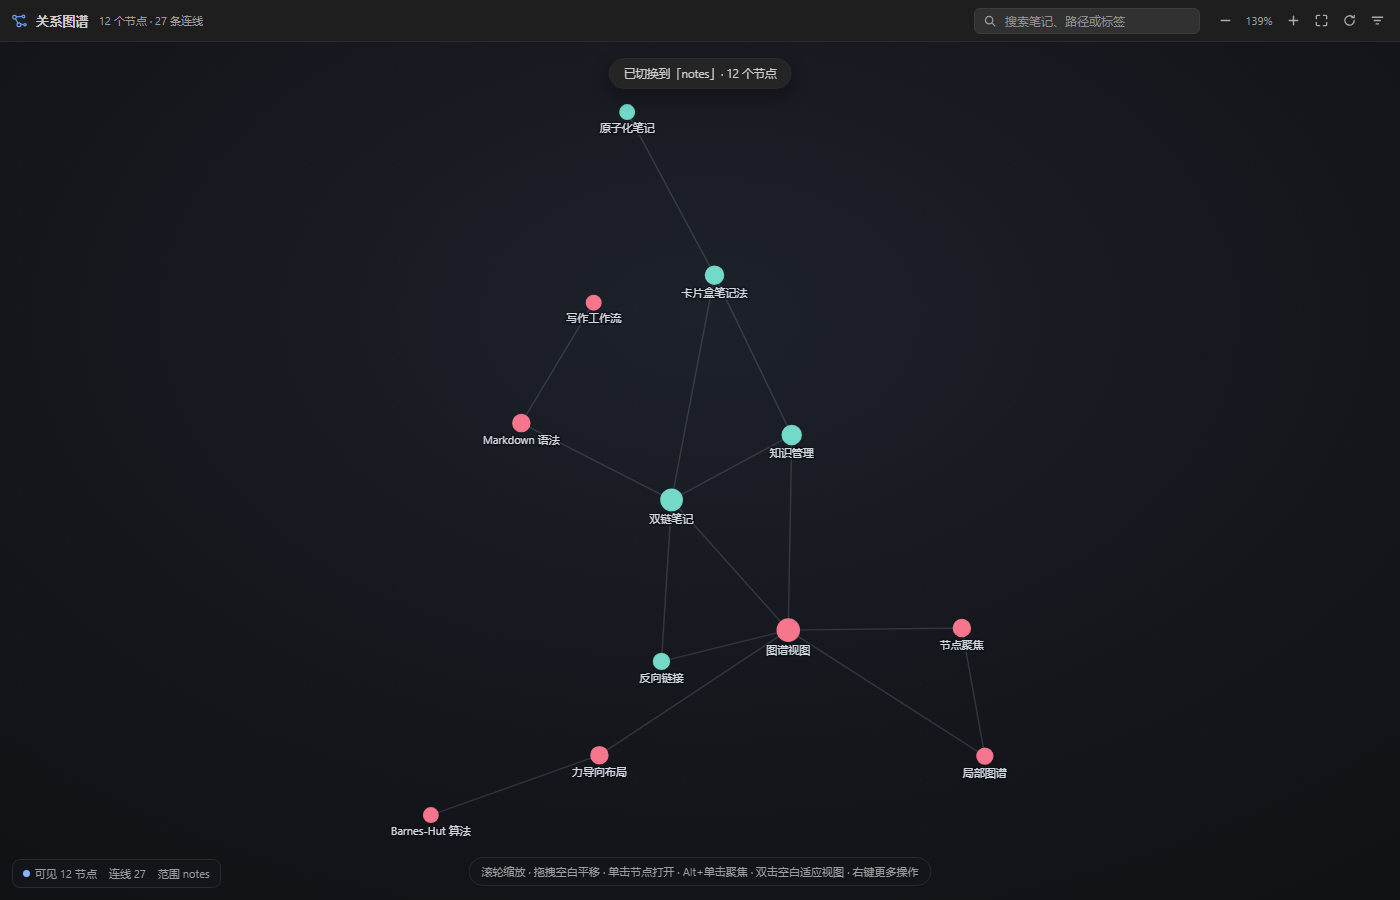
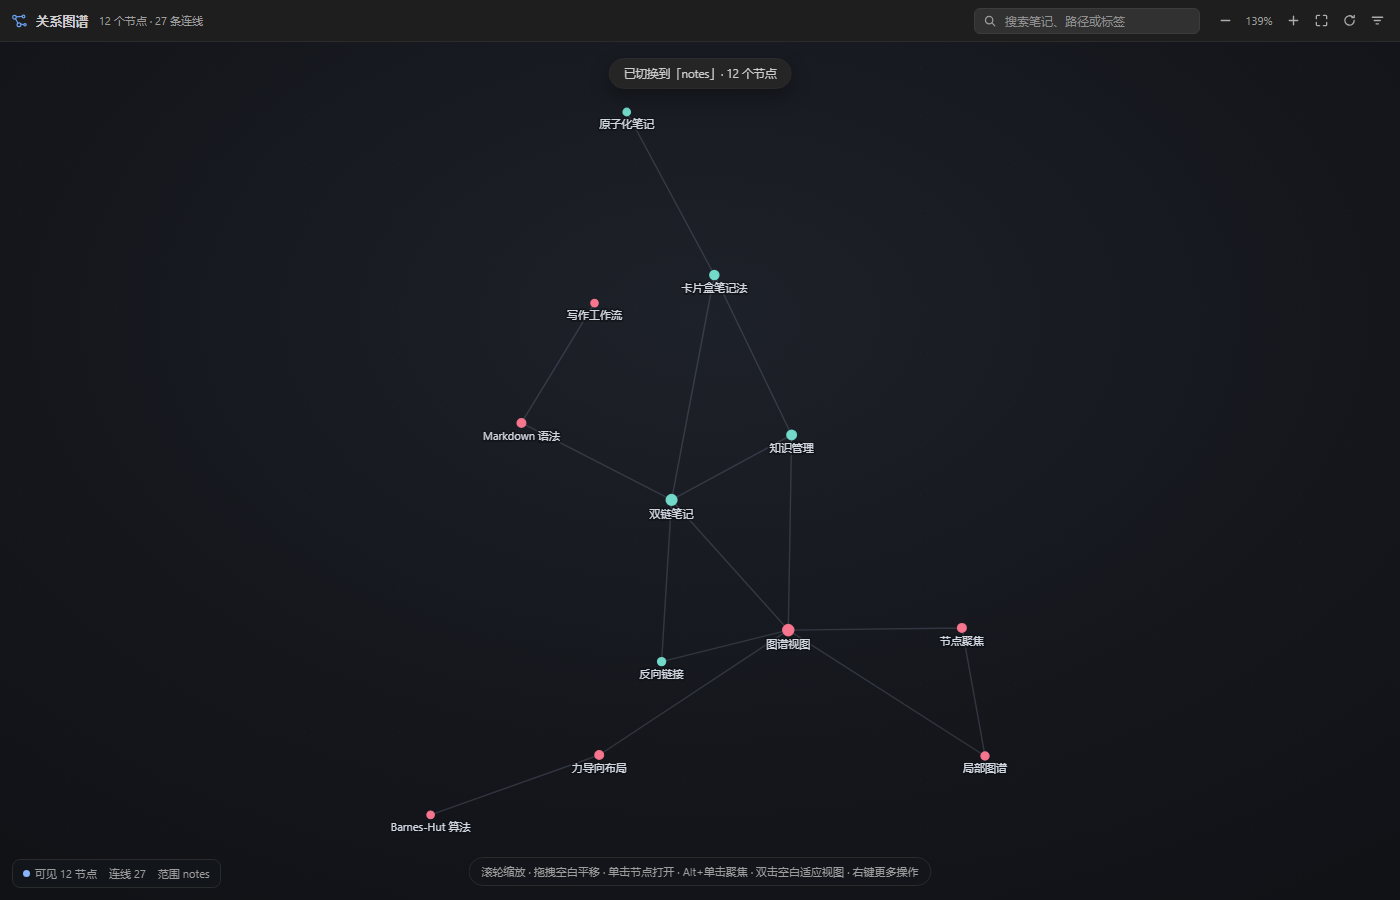
fix: 节点初始半径减半并提前标签淡出 v1.3.1
- radiusFor 整体 ×0.5（含未解析节点），点状观感更接近 Obsidian
- 标签淡出改为按节点屏幕半径判定（1.8px 起渐隐、0.7px 完全隐藏）：
  节点变小后标签在缩放更早阶段消失，修复“缩小视图时文字隐藏过晚”
- 绘制最小像素 2.2→1.1、拾取半径补偿 5→6、碰撞间距 5→8，
  保证小节点可点击且布局密度与改动前一致
- 冒烟测试新增高低缩放标签透明度对比（0.81 → 0.07）与极小缩放全隐藏断言
- 文档与全部截图按新尺寸重新生成

diff --git a/scripts/smoke-webview.js b/scripts/smoke-webview.js
@@ -273,6 +273,53 @@ function wait(ms) { return new Promise((r) => setTimeout(r, ms)); }
   }
   canvas.dispatchEvent(new window.MouseEvent('pointerleave', { bubbles: true }));
   await wait(80);
+
+  // 高缩放基线：适应视图后标签应几乎不透明
+  window.document.querySelector('#btn-fit').dispatchEvent(new window.MouseEvent('click', { bubbles: true }));
+  await wait(700);
+  labelCalls.length = 0;
+  window.dispatchEvent(new window.Event('resize'));
+  await wait(150);
+  const highAlphas = labelCalls.map((c) => c.alpha);
+  const highAvg = highAlphas.length
+    ? highAlphas.reduce((a, b) => a + b, 0) / highAlphas.length
+    : 0;
+  const highZoom = window.document.querySelector('#zoom-label').textContent;
+
+  // 缩到 35% 左右：低度数节点的标签应先淡出，仅保留较大节点
+  for (let i = 0; i < 16; i++) {
+    const zoom = parseFloat(window.document.querySelector('#zoom-label').textContent);
+    if (zoom <= 42) break;
+    const wheel = new window.MouseEvent('wheel', {
+      clientX: 640,
+      clientY: 410,
+      bubbles: true,
+      cancelable: true
+    });
+    wheel.deltaY = 120;
+    wheel.deltaMode = 0;
+    canvas.dispatchEvent(wheel);
+    await wait(50);
+  }
+  await wait(600);
+  labelCalls.length = 0;
+  window.dispatchEvent(new window.Event('resize'));
+  await wait(150);
+  const nodeCount = Number((/(\d+) 个节点/.exec(window.document.querySelector('#stats').textContent) || [0, 42])[1]);
+  const uniqueLabels = new Set(labelCalls.map((c) => c.text)).size;
+  const lowAlphas = labelCalls.map((c) => c.alpha);
+  const lowAvg = lowAlphas.length
+    ? lowAlphas.reduce((a, b) => a + b, 0) / lowAlphas.length
+    : 0;
+  const lowZoom = window.document.querySelector('#zoom-label').textContent;
+  console.log(
+    `标签透明度：${highZoom} 平均 ${highAvg.toFixed(2)} → ${lowZoom} 平均 ${lowAvg.toFixed(2)}，` +
+      `可见标签 ${uniqueLabels} / 节点 ${nodeCount}`
+  );
+  check('高缩放下标签清晰', highAvg > 0.7, highAvg.toFixed(2));
+  check('缩小后标签明显变淡', lowAvg < highAvg * 0.65, `${highAvg.toFixed(2)} → ${lowAvg.toFixed(2)}`);
+  check('缩小后仍有大节点标签可读', uniqueLabels > 0);
+
   for (let i = 0; i < 8; i++) {
     const wheel = new window.MouseEvent('wheel', {
       clientX: 640,

diff --git a/media/graph.js b/media/graph.js
@@ -346,9 +346,10 @@
   }
 
   function radiusFor(node) {
-    var base = 3 + Math.min(7.5, Math.sqrt(node.degree || 0) * 1.55);
+    // v1.3.1：初始点大小减半，更接近 Obsidian 的点状图谱
+    var base = (3 + Math.min(7.5, Math.sqrt(node.degree || 0) * 1.55)) * 0.5;
     if (node.kind === 'unresolved') {
-      return Math.max(2.8, base * 0.7);
+      base = Math.max(1.4, base * 0.7);
     }
     return base * state.settings.nodeScale;
   }
@@ -630,7 +631,7 @@
             var dx = b.x - a.x;
             var dy = b.y - a.y;
             var dist = Math.sqrt(dx * dx + dy * dy);
-            var minDist = a.radius + b.radius + 5;
+            var minDist = a.radius + b.radius + 8;
             if (dist >= minDist) continue;
             if (dist < 0.001) {
               dx = (Math.random() - 0.5) * 0.8;
@@ -796,11 +797,11 @@
     if (!state.settings.showLabels) {
       return 0;
     }
-    var base = Math.max(0.1, state.settings.labelThreshold);
-    var sizeBonus = clamp((node.radius - 4) / 12, 0, 0.18);
-    var fadeStart = base + sizeBonus;
-    var fadeEnd = base * 0.55 + sizeBonus;
-    var t = (k - fadeEnd) / Math.max(0.001, fadeStart - fadeEnd);
+    var scale = Math.max(0.2, state.settings.labelThreshold / 0.5);
+    var screenRadius = node.radius * k; // 节点在屏幕上的实际半径
+    var fadeStart = 1.8 * scale; // 高于此值完全不透明
+    var fadeEnd = 0.7 * scale; // 低于此值完全隐藏
+    var t = (screenRadius - fadeEnd) / Math.max(0.001, fadeStart - fadeEnd);
     if (emphasis) {
       t = Math.max(t, 0.92);
     }
@@ -882,7 +883,7 @@
       var n = state.nodes[i];
       var sx = n.x * k + ox;
       var sy = n.y * k + oy;
-      var r = Math.max(2.2, n.radius * k);
+      var r = Math.max(1.1, n.radius * k);
       if (sx < -r - 120 || sx > state.W + r + 120 || sy < -r - 60 || sy > state.H + r + 60) {
         continue;
       }
@@ -1040,7 +1041,7 @@
       var dx = n.x - wx;
       var dy = n.y - wy;
       var d2 = dx * dx + dy * dy;
-      var r = n.radius + 5 / k;
+      var r = n.radius + 6 / k;
       if (d2 <= r * r && d2 < bestD) {
         best = n;
         bestD = d2;

diff --git a/CHANGELOG.md b/CHANGELOG.md
@@ -1,5 +1,21 @@
 # Changelog
 
+## 1.3.1 — 2026-10-19
+
+### 修复
+
+- 初始节点半径减半（含未解析节点），整体更接近 Obsidian 的点状图谱
+- 标签淡出改为按**节点屏幕半径**判定（约 1.8px 起渐隐、0.7px 完全隐藏）：
+  节点变小后标签会在缩放的更早阶段消失，修复“缩小视图时文字隐藏过晚”
+- 同步下调绘制与拾取的最小像素（2.2 → 1.1），保证小节点依然可点；
+  碰撞间距由 5 补偿到 8，布局密度与改动前基本一致
+
+### 兼容性
+
+- 缩放范围（6%~500%）、滚轮锚点、适应视图、文件夹范围、搜索与聚焦行为均未改动
+- `labelThreshold` 仍用于调节标签淡出早晚，数值越大越早淡出
+- 深色 / 浅色主题与高亮、数据持久化逻辑不受影响
+
 ## 1.3.0 — 2026-10-19
 
 ### 新增

diff --git a/README.md b/README.md
@@ -91,8 +91,8 @@ npm run compile
 
 ```bash
 npm install
-npm run package          # 产出 markdowns-in-graph-1.3.0.vsix
-code --install-extension markdowns-in-graph-1.3.0.vsix
+npm run package          # 产出 markdowns-in-graph-1.3.1.vsix
+code --install-extension markdowns-in-graph-1.3.1.vsix
 ```
 
 也可以在 VS Code 中：`扩展` 面板右上角 `...` → `从 VSIX 安装...`，选择生成的 `.vsix` 文件。
